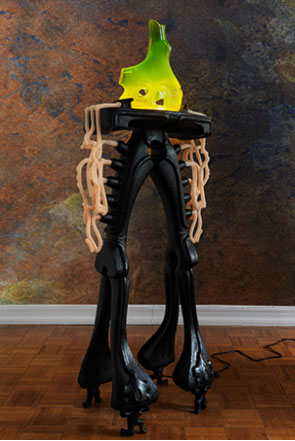
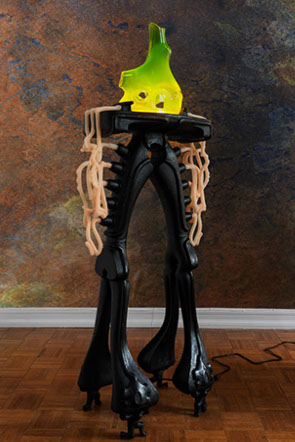
bionic fix real!!

diff --git a/bionic.html b/bionic.html
@@ -18,11 +18,11 @@ if(typeof Muse == "undefined") window.Muse = {}; window.Muse.assets = {"required
   <!-- CSS -->
   <link rel="stylesheet" type="text/css" href="css/site_global.css?crc=4010206918"/>
   <link rel="stylesheet" type="text/css" href="css/master_subpage-master.css?crc=195720821"/>
-  <link rel="stylesheet" type="text/css" href="css/bionic.css?crc=4045451551" id="pagesheet"/>
+  <link rel="stylesheet" type="text/css" href="css/bionic.css?crc=4074647781" id="pagesheet"/>
   <!-- IE-only CSS -->
   <!--[if lt IE 9]>
   <link rel="stylesheet" type="text/css" href="css/nomq_preview_master_subpage-master.css?crc=256683116"/>
-  <link rel="stylesheet" type="text/css" href="css/nomq_bionic.css?crc=4004302191" id="nomq_pagesheet"/>
+  <link rel="stylesheet" type="text/css" href="css/nomq_bionic.css?crc=3789011780" id="nomq_pagesheet"/>
   <![endif]-->
    </head>
  <body>
@@ -31,7 +31,7 @@ if(typeof Muse == "undefined") window.Muse = {}; window.Muse.assets = {"required
    <div class="clearfix borderbox" id="page"><!-- column -->
     <a class="nonblock nontext colelem shared_content" id="u11050" href="index.html" data-sizePolicy="fixed" data-pintopage="page_fixedCenter" data-content-guid="u11050_content"><!-- state-based BG images --></a>
     <div class="clip_frame colelem" id="u13379"><!-- image -->
-     <img class="block temp_no_img_src" id="u13379_img" data-orig-src="images/_dsc0431-edit-crop-u13379.jpg?crc=534163256" data-hidpi-src="images/_dsc0431-edit-crop-u13379_2x.jpg?crc=4167408727" alt="" data-heightwidthratio="1.3087027914614122" data-image-width="609" data-image-height="797" src="images/blank.gif?crc=4208392903"/>
+     <img class="block temp_no_img_src" id="u13379_img" data-orig-src="images/bionic1-crop-u13379.jpg?crc=308083017" data-hidpi-src="images/bionic1-crop-u13379_2x.jpg?crc=3794973896" alt="" data-heightwidthratio="1.3087027914614122" data-image-width="609" data-image-height="797" src="images/blank.gif?crc=4208392903"/>
     </div>
     <div class="clearfix colelem shared_content" id="u13383-19" data-content-guid="u13383-19_content"><!-- content -->
      <p id="u13383-2">BIONIC KNEES FOR ATLAS</p>
@@ -49,17 +49,17 @@ if(typeof Muse == "undefined") window.Muse = {}; window.Muse.assets = {"required
      <iframe width="560" height="315" src="https://www.youtube.com/embed/UaGId8oOTdw" title="YouTube video player" frameborder="0" allow="accelerometer; autoplay; clipboard-write; encrypted-media; gyroscope; picture-in-picture" allowfullscreen></iframe>
     </div>
     <div class="clip_frame colelem" id="u13372"><!-- image -->
-     <img class="block temp_no_img_src" id="u13372_img" data-orig-src="images/_dsc0442-crop-u13372.jpg?crc=20582923" data-hidpi-src="images/_dsc0442-crop-u13372_2x.jpg?crc=3810651434" alt="" data-heightwidthratio="0.5989130434782609" data-image-width="920" data-image-height="551" src="images/blank.gif?crc=4208392903"/>
+     <img class="block temp_no_img_src" id="u13372_img" data-orig-src="images/bionic2-crop-u13372.jpg?crc=101658030" data-hidpi-src="images/bionic2-crop-u13372_2x.jpg?crc=424695203" alt="" data-heightwidthratio="0.5989130434782609" data-image-width="920" data-image-height="551" src="images/blank.gif?crc=4208392903"/>
     </div>
     <div class="clearfix colelem" id="pu13376"><!-- group -->
      <div class="clip_frame grpelem" id="u13376"><!-- image -->
-      <img class="block temp_no_img_src" id="u13376_img" data-orig-src="images/_dsc0458-crop-u13376.jpg?crc=4266552431" data-hidpi-src="images/_dsc0458-crop-u13376_2x.jpg?crc=346571335" alt="" data-heightwidthratio="1.4982935153583619" data-image-width="293" data-image-height="439" src="images/blank.gif?crc=4208392903"/>
+      <img class="block temp_no_img_src" id="u13376_img" data-orig-src="images/bionic3.jpg?crc=497604547" data-hidpi-src="images/bionic3_2x.jpg?crc=330441236" alt="" data-heightwidthratio="1.5017064846416381" data-image-width="293" data-image-height="440" src="images/blank.gif?crc=4208392903"/>
      </div>
      <div class="clip_frame grpelem" id="u13381"><!-- image -->
-      <img class="block temp_no_img_src" id="u13381_img" data-orig-src="images/bionic_1-crop-u13381.jpg?crc=476912169" data-hidpi-src="images/bionic_1-crop-u13381_2x.jpg?crc=167982870" alt="" data-heightwidthratio="1.494915254237288" data-image-width="295" data-image-height="441" src="images/blank.gif?crc=4208392903"/>
+      <img class="block temp_no_img_src" id="u13381_img" data-orig-src="images/bionic_1-crop-u13381.jpg?crc=4046337263" data-hidpi-src="images/bionic_1-crop-u13381_2x.jpg?crc=4253061947" alt="" data-heightwidthratio="1.4983050847457626" data-image-width="295" data-image-height="442" src="images/blank.gif?crc=4208392903"/>
      </div>
      <div class="clip_frame grpelem" id="u13374"><!-- image -->
-      <img class="block temp_no_img_src" id="u13374_img" data-orig-src="images/bionic_3-crop-u13374.jpg?crc=4033899546" alt="" data-heightwidthratio="1.5" data-image-width="294" data-image-height="441" src="images/blank.gif?crc=4208392903"/>
+      <img class="block temp_no_img_src" id="u13374_img" data-orig-src="images/bionic_3-crop-u13374.jpg?crc=41594306" alt="" data-heightwidthratio="1.5" data-image-width="294" data-image-height="441" src="images/blank.gif?crc=4208392903"/>
      </div>
     </div>
     <div class="clearfix colelem shared_content" id="u13508-5" data-content-guid="u13508-5_content"><!-- content -->
@@ -76,16 +76,16 @@ if(typeof Muse == "undefined") window.Muse = {}; window.Muse.assets = {"required
    <div class="clearfix borderbox temp_no_id" data-orig-id="page"><!-- column -->
     <span class="nonblock nontext colelem placeholder" data-placeholder-for="u11050_content"><!-- placeholder node --></span>
     <div class="clip_frame colelem temp_no_id" data-orig-id="u13379"><!-- image -->
-     <img class="block temp_no_id temp_no_img_src" data-orig-src="images/_dsc0431-edit-crop-u133792.jpg?crc=3847139258" data-hidpi-src="images/_dsc0431-edit-crop-u13379_2x2.jpg?crc=194096695" alt="" data-heightwidthratio="1.3097112860892388" data-image-width="381" data-image-height="499" data-orig-id="u13379_img" src="images/blank.gif?crc=4208392903"/>
+     <img class="block temp_no_id temp_no_img_src" data-orig-src="images/bionic1-crop-u133792.jpg?crc=439169423" data-hidpi-src="images/bionic1-crop-u13379_2x2.jpg?crc=4084782377" alt="" data-heightwidthratio="1.3097112860892388" data-image-width="381" data-image-height="499" data-orig-id="u13379_img" src="images/blank.gif?crc=4208392903"/>
     </div>
     <span class="clearfix colelem placeholder" data-placeholder-for="u13383-19_content"><!-- placeholder node --></span>
     <span class="colelem placeholder" data-placeholder-for="u13514_content"><!-- placeholder node --></span>
     <div class="clip_frame colelem temp_no_id" data-orig-id="u13372"><!-- image -->
-     <img class="block temp_no_id temp_no_img_src" data-orig-src="images/_dsc0442-crop-u133722.jpg?crc=265589913" data-hidpi-src="images/_dsc0442-crop-u13372_2x2.jpg?crc=4260419501" alt="" data-heightwidthratio="0.597864768683274" data-image-width="562" data-image-height="336" data-orig-id="u13372_img" src="images/blank.gif?crc=4208392903"/>
+     <img class="block temp_no_id temp_no_img_src" data-orig-src="images/bionic2-crop-u133722.jpg?crc=175912953" data-hidpi-src="images/bionic2-crop-u13372_2x2.jpg?crc=267408525" alt="" data-heightwidthratio="0.597864768683274" data-image-width="562" data-image-height="336" data-orig-id="u13372_img" src="images/blank.gif?crc=4208392903"/>
     </div>
     <div class="clearfix colelem temp_no_id" data-orig-id="pu13376"><!-- group -->
      <div class="clip_frame grpelem temp_no_id" data-orig-id="u13376"><!-- image -->
-      <img class="block temp_no_id temp_no_img_src" data-orig-src="images/_dsc0458-crop-u133762.jpg?crc=509102287" data-hidpi-src="images/_dsc0458-crop-u13376_2x2.jpg?crc=3820050853" alt="" data-heightwidthratio="1.5" data-image-width="178" data-image-height="267" data-orig-id="u13376_img" src="images/blank.gif?crc=4208392903"/>
+      <img class="block temp_no_id temp_no_img_src" data-orig-src="images/bionic3179x268.jpg?crc=3774306307" data-hidpi-src="images/bionic3179x268_2x.jpg?crc=3998492877" alt="" data-heightwidthratio="1.5" data-image-width="178" data-image-height="267" data-orig-id="u13376_img" src="images/blank.gif?crc=4208392903"/>
      </div>
      <div class="clip_frame grpelem temp_no_id" data-orig-id="u13381"><!-- image -->
       <img class="block temp_no_id temp_no_img_src" data-orig-src="images/bionic_1-crop-u133812.jpg?crc=3971316562" data-hidpi-src="images/bionic_1-crop-u13381_2x2.jpg?crc=4024591511" alt="" data-heightwidthratio="1.488888888888889" data-image-width="180" data-image-height="268" data-orig-id="u13381_img" src="images/blank.gif?crc=4208392903"/>

diff --git a/css/bionic.css b/css/bionic.css
@@ -1,1 +1,1 @@
-.version.bionic{color:#0000F1;background-color:#20B11F;}#page{margin-right:auto;padding-top:12px;border-width:0px;background-color:transparent;border-color:#000000;background-image:none;min-height:426px;z-index:1;margin-left:auto;width:100%;padding-bottom:62px;}#u11050{margin-left:50%;z-index:3;position:relative;}#u13379{margin-left:18.34%;z-index:13;position:relative;width:63.34%;background-color:transparent;}#u13383-19{color:#FFFF00;text-align:left;z-index:15;position:relative;font-family:Courier New, Courier, monospace;min-height:120px;background-color:transparent;margin-top:23px;}#u13383-2{font-weight:bold;font-size:15px;line-height:18px;}#u13383-4,#u13383-6{font-style:italic;font-size:12px;line-height:14px;}#u13383-7,#u13383-9,#u13383-10,#u13383-12,#u13383-14,#u13383-16,#u13383-17{font-size:12px;line-height:14px;}#u13514{margin-left:50%;left:-281px;width:560px;z-index:39;margin-top:23px;min-height:221px;border-width:0px;background-color:transparent;border-color:transparent;position:relative;}#u13372{z-index:7;position:relative;background-color:transparent;}#pu13376{z-index:11;}#u13376{margin-right:-10000px;margin-top:2px;position:relative;background-color:transparent;z-index:11;}#u13381{margin-right:-10000px;margin-top:1px;position:relative;background-color:transparent;z-index:5;}#u13374{margin-right:-10000px;z-index:9;position:relative;background-color:transparent;}#u13372_img,#u13376_img,#u13374_img{width:100%;}#u13508-5{color:#FFFF00;font-style:italic;line-height:14px;position:relative;background-color:transparent;font-family:Courier New, Courier, monospace;min-height:36px;font-size:12px;text-align:left;z-index:34;}.html{background-color:#787883;}body{position:relative;}@media (min-width: 601px), print{#muse_css_mq{background-color:#FFFFFF;}#bp_infinity.active{display:block;}#page{max-width:960px;}#u11050{height:136px;width:405px;left:-200px;}#u13379{margin-top:29px;}#u13379_img{width:100.17%;}#u13383-19{width:95.84%;margin-left:2.09%;}#u13372{margin-top:14px;width:95.84%;margin-left:2.09%;}#pu13376{margin-top:16px;width:95.94%;margin-left:2.09%;}#u13376{width:31.82%;}#u13376_img{padding-bottom:0.3412969283276451%;}#u13381{width:31.93%;left:33.88%;}#u13381_img{padding-bottom:0.3397508493771236%;width:100.35%;}#u13374{width:31.93%;left:68.08%;}#u13508-5{margin-top:7px;width:95.84%;margin-left:2.09%;}.css_verticalspacer .verticalspacer{height:calc(100vh - 2608px);}}@media (max-width: 600px){#muse_css_mq{background-color:#000258;}#bp_600.active{display:block;}#page{max-width:600px;}#u11050{height:116px;width:335px;left:-166px;}#u13379{margin-top:49px;}#u13379_img{width:100.27%;}#u13383-19{width:93.34%;margin-left:3.17%;}#u13372{margin-top:18px;width:93.67%;margin-left:3.17%;}#pu13376{margin-top:8px;width:93.34%;margin-left:3.17%;}#u13376{width:31.79%;}#u13381{width:31.97%;left:33.93%;}#u13381_img{padding-bottom:0.5585251361219727%;width:100.56%;}#u13374{width:31.97%;left:68.04%;}#u13508-5{margin-top:13px;width:93.34%;margin-left:3.17%;}.css_verticalspacer .verticalspacer{height:calc(100vh - 1924px);}body{overflow-x:hidden;min-width:320px;}}
+.version.bionic{color:#0000F2;background-color:#DE30E5;}#page{margin-right:auto;padding-top:12px;border-width:0px;background-color:transparent;border-color:#000000;background-image:none;min-height:426px;z-index:1;margin-left:auto;width:100%;padding-bottom:62px;}#u11050{margin-left:50%;z-index:3;position:relative;}#u13379{margin-left:18.34%;z-index:13;position:relative;width:63.34%;background-color:transparent;}#u13383-19{color:#FFFF00;text-align:left;z-index:15;position:relative;font-family:Courier New, Courier, monospace;min-height:120px;background-color:transparent;margin-top:23px;}#u13383-2{font-weight:bold;font-size:15px;line-height:18px;}#u13383-4,#u13383-6{font-style:italic;font-size:12px;line-height:14px;}#u13383-7,#u13383-9,#u13383-10,#u13383-12,#u13383-14,#u13383-16,#u13383-17{font-size:12px;line-height:14px;}#u13514{margin-left:50%;left:-281px;width:560px;z-index:39;margin-top:23px;min-height:221px;border-width:0px;background-color:transparent;border-color:transparent;position:relative;}#u13372{z-index:7;position:relative;background-color:transparent;}#pu13376{z-index:11;}#u13376{margin-right:-10000px;margin-top:2px;position:relative;background-color:transparent;z-index:11;}#u13381{margin-right:-10000px;margin-top:1px;position:relative;background-color:transparent;z-index:5;}#u13374{margin-right:-10000px;z-index:9;position:relative;background-color:transparent;}#u13372_img,#u13376_img,#u13374_img{width:100%;}#u13508-5{color:#FFFF00;font-style:italic;line-height:14px;position:relative;background-color:transparent;font-family:Courier New, Courier, monospace;min-height:36px;font-size:12px;text-align:left;z-index:34;}.html{background-color:#787883;}body{position:relative;}@media (min-width: 601px), print{#muse_css_mq{background-color:#FFFFFF;}#bp_infinity.active{display:block;}#page{max-width:960px;}#u11050{height:136px;width:405px;left:-200px;}#u13379{margin-top:29px;}#u13379_img{width:100.17%;}#u13383-19{width:95.84%;margin-left:2.09%;}#u13372{margin-top:14px;width:95.84%;margin-left:2.09%;}#pu13376{margin-top:16px;width:95.94%;margin-left:2.09%;}#u13376{width:31.82%;}#u13381{width:31.93%;left:33.88%;}#u13381_img{width:100.35%;}#u13374{width:31.93%;left:68.08%;}#u13508-5{margin-top:7px;width:95.84%;margin-left:2.09%;}.css_verticalspacer .verticalspacer{height:calc(100vh - 2608px);}}@media (max-width: 600px){#muse_css_mq{background-color:#000258;}#bp_600.active{display:block;}#page{max-width:600px;}#u11050{height:116px;width:335px;left:-166px;}#u13379{margin-top:49px;}#u13379_img{width:100.27%;}#u13383-19{width:93.34%;margin-left:3.17%;}#u13372{margin-top:18px;width:93.67%;margin-left:3.17%;}#pu13376{margin-top:8px;width:93.34%;margin-left:3.17%;}#u13376{width:31.79%;}#u13381{width:31.97%;left:33.93%;}#u13381_img{padding-bottom:0.5585251361219727%;width:100.56%;}#u13374{width:31.97%;left:68.04%;}#u13508-5{margin-top:13px;width:93.34%;margin-left:3.17%;}.css_verticalspacer .verticalspacer{height:calc(100vh - 1924px);}body{overflow-x:hidden;min-width:320px;}}

diff --git a/css/nomq_bionic.css b/css/nomq_bionic.css
@@ -1,1 +1,1 @@
-#muse_css_mq{background-color:#FFFFFF;}#bp_infinity.active{display:block;}#page{max-width:960px;}#u11050{height:136px;width:405px;left:-200px;}#u13379{margin-top:29px;}#u13379_img{width:100.17%;}#u13383-19{width:95.84%;margin-left:2.09%;}#u13372{margin-top:14px;width:95.84%;margin-left:2.09%;}#pu13376{margin-top:16px;width:95.94%;margin-left:2.09%;}#u13376{width:31.82%;}#u13376_img{padding-bottom:0.3412969283276451%;}#u13381{width:31.93%;left:33.88%;}#u13381_img{padding-bottom:0.3397508493771236%;width:100.35%;}#u13374{width:31.93%;left:68.08%;}#u13508-5{margin-top:7px;width:95.84%;margin-left:2.09%;}.css_verticalspacer .verticalspacer{height:calc(100vh - 2608px);}
+#muse_css_mq{background-color:#FFFFFF;}#bp_infinity.active{display:block;}#page{max-width:960px;}#u11050{height:136px;width:405px;left:-200px;}#u13379{margin-top:29px;}#u13379_img{width:100.17%;}#u13383-19{width:95.84%;margin-left:2.09%;}#u13372{margin-top:14px;width:95.84%;margin-left:2.09%;}#pu13376{margin-top:16px;width:95.94%;margin-left:2.09%;}#u13376{width:31.82%;}#u13381{width:31.93%;left:33.88%;}#u13381_img{width:100.35%;}#u13374{width:31.93%;left:68.08%;}#u13508-5{margin-top:7px;width:95.84%;margin-left:2.09%;}.css_verticalspacer .verticalspacer{height:calc(100vh - 2608px);}
